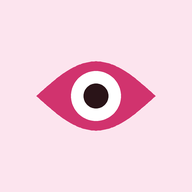
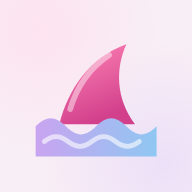
Neuer Name: Haiwoche – keine Panik, nur Zyklus
- Name, Slogan und Logo (rosa Haifischflosse auf Lavendel-Welle)
- Neue App-Icons, Manifest, Titel, Bericht, Kalender-Export
- Anspielungen auf den alten Namen entfernt, Daten bleiben erhalten

Claude-Session: https://claude.ai/code/session_01QNFRrH5HSP2dXDASiqCdb4

Changed region(s): [[0.1875, 0.2188, 0.8438, 0.8438]]

diff --git a/js/app.js b/js/app.js
@@ -1,10 +1,10 @@
-// Lukas is watching you – App-Steuerung, Ansichten und Aktionen.
+// Haiwoche – App-Steuerung, Ansichten und Aktionen.
 import * as C from './core.js';
 import * as T from './content.js';
 import * as St from './store.js';
-import { esc, fmt, fmtLong, fmtMonth, fmtShortMonth, tage, dec, icon, eye, bars, curve, cycleRows, heatmap, confBars, CONF_LABEL, TYPE_LABEL, gauge, phaseCurve, areaLine, donut } from './ui.js';
+import { esc, fmt, fmtLong, fmtMonth, fmtShortMonth, tage, dec, icon, logo, bars, curve, cycleRows, heatmap, confBars, CONF_LABEL, TYPE_LABEL, gauge, phaseCurve, areaLine, donut } from './ui.js';
 
-const VERSION = '2.1';
+const VERSION = '2.2';
 const $ = s => document.querySelector(s);
 const state = {
   db: null, session: null, prefs: St.loadPrefs(), ver: 0,
@@ -102,8 +102,9 @@ const chipsHtml = items => `<div class="mini-chips">${items.map(i => `<span clas
 function viewOnboarding() {
   const o = state.ob;
   return `<div class="view" style="padding-top:28px">
-    <div class="center"><div style="width:84px;height:84px;margin:0 auto">${eye()}</div>
-    <h1 style="margin:10px 0 6px">Lukas is watching you</h1>
+    <div class="center"><div style="width:96px;height:96px;margin:0 auto">${logo()}</div>
+    <h1 style="margin:10px 0 2px">Haiwoche</h1>
+    <p style="margin:0 0 10px;color:var(--sel);font-weight:600">Keine Panik, nur Zyklus.</p>
     <p class="muted" style="margin:0 0 24px">Dein privater Zyklus-Tracker. Alles bleibt auf diesem iPhone – ohne Account, ohne Internet, ohne Abo.</p></div>
     <div class="card">
       <label class="f" style="margin-top:0" for="ob-name">Wie heißt du? (optional)</label>
@@ -201,7 +202,7 @@ function viewToday() {
 
   return `<div class="view">
   <div class="hello"><div class="grow"><div class="hi">Hallo${name ? ', ' + esc(name) : ''} 👋</div><h1>${q}</h1></div>
-    <button class="avatar" data-a="go" data-v="more" aria-label="Mehr">${name ? esc(name.trim()[0].toUpperCase()) : `<span style="width:30px;height:30px">${eye()}</span>`}</button></div>
+    <button class="avatar" data-a="go" data-v="more" aria-label="Mehr">${name ? esc(name.trim()[0].toUpperCase()) : `<span style="width:30px;height:30px">${logo()}</span>`}</button></div>
   ${capsules(m)}
   ${ios && !standalone ? `<div class="card tint"><h2>Als App installieren</h2><p class="small mb0">Tippe in Safari auf <b>Teilen</b> → <b>Zum Home-Bildschirm</b>. Erst dann bleiben deine Daten dauerhaft gespeichert.</p></div>` : ''}
   <div class="card hero">
@@ -478,7 +479,7 @@ function viewReport() {
   <div class="btnrow mt"><button class="btn" data-a="print">${icon('doc')}PDF</button><button class="btn sec" data-a="shareReport">${icon('share')}Als Datei</button></div>
   <p class="xs muted mt">„Als PDF“ öffnet den Druckdialog – dort „Teilen“ → „In Dateien sichern“ als PDF. Falls er sich nicht öffnet, nutze „Als Datei“ und öffne sie in Safari.</p></div>
   <div id="report">
-  <div class="card"><div class="row"><div style="width:36px;height:36px">${eye()}</div><div><h2 style="margin:0">Zyklusbericht${S().name ? ' – ' + esc(S().name) : ''}</h2><div class="small muted">${fmt(from, { day: 'numeric', month: 'long', year: 'numeric' })} – ${fmt(t, { day: 'numeric', month: 'long', year: 'numeric' })}</div></div></div></div>
+  <div class="card"><div class="row"><div style="width:36px;height:36px">${logo()}</div><div><h2 style="margin:0">Zyklusbericht${S().name ? ' – ' + esc(S().name) : ''}</h2><div class="small muted">${fmt(from, { day: 'numeric', month: 'long', year: 'numeric' })} – ${fmt(t, { day: 'numeric', month: 'long', year: 'numeric' })}</div></div></div></div>
   <div class="card"><h2>Überblick</h2>
     <div class="kv"><span>Ø Zykluslänge (gesamt)</span><b>${m.nUsed ? tage(m.avgCycle) + ' (± ' + dec(m.sd) + ')' : '–'}</b></div>
     <div class="kv"><span>Spanne der letzten Zyklen</span><b>${m.lens.length ? Math.min(...m.lens.slice(-6)) + '–' + Math.max(...m.lens.slice(-6)) + ' Tage' : '–'}</b></div>
@@ -498,7 +499,7 @@ function viewReport() {
   ${R.months.length ? `<div class="card"><h2>Verlauf je Monat</h2><table class="tbl"><thead><tr><th>Monat</th><th>Periode</th><th>Schmerz</th><th>Energie</th><th>Schlaf</th></tr></thead><tbody>${R.months.map(x => `<tr><td>${fmtMonth(x.key)}</td><td>${x.periodDays || '–'}</td><td>${dec(x.pain)}</td><td>${dec(x.energy)}</td><td>${x.sleep == null ? '–' : dec(x.sleep) + ' h'}</td></tr>`).join('')}</tbody></table><p class="xs muted mt mb0">Schmerz 0–3, Energie 1–5 (Durchschnitt der Einträge).</p></div>` : ''}
   ${ins.length ? `<div class="card"><h2>Beobachtungen</h2>${ins.slice(0, 6).map(i => `<p class="small"><b>${esc(i.title)}</b> (${TYPE_LABEL[i.type]}): ${esc(i.text)}</p>`).join('')}</div>` : ''}
   ${R.notes.length ? `<div class="card"><h2>Notizen</h2>${R.notes.slice(-15).map(([d, e]) => `<p class="small"><b>${fmt(d, { day: 'numeric', month: 'short' })}:</b> ${esc(e.note)}</p>`).join('')}</div>` : ''}
-  <p class="xs muted">Erstellt am ${fmt(t, { day: 'numeric', month: 'long', year: 'numeric' })} mit „Lukas is watching you“. Selbst erfasste Daten; Eisprung- und Periodenangaben sind Schätzungen. Keine Diagnose.</p>
+  <p class="xs muted">Erstellt am ${fmt(t, { day: 'numeric', month: 'long', year: 'numeric' })} mit „Haiwoche“. Selbst erfasste Daten; Eisprung- und Periodenangaben sind Schätzungen. Keine Diagnose.</p>
   </div></div>`;
 }
 
@@ -582,7 +583,7 @@ function viewArticle(id) {
 
 function viewAbout() {
   return `<div class="view">${backHead('Über die App')}
-  <div class="card center"><div style="width:64px;height:64px;margin:0 auto">${eye()}</div><h2 style="margin:8px 0 2px">Lukas is watching you</h2><p class="small muted mb0">Version ${VERSION} · mit ❤ gebaut. (Lukas sieht natürlich nichts.)</p></div>
+  <div class="card center"><div style="width:64px;height:64px;margin:0 auto">${logo()}</div><h2 style="margin:8px 0 2px">Haiwoche</h2><p class="small mb0" style="color:var(--sel)">Keine Panik, nur Zyklus.</p><p class="small muted mb0">Version ${VERSION} · mit ❤ gebaut</p></div>
   <div class="card"><h2>Datenschutz</h2><ul class="small" style="padding-left:18px;margin:0">
     <li>Alle Daten bleiben auf diesem Gerät (lokaler Speicher), optional verschlüsselt.</li>
     <li>Keine Accounts, keine Server, keine Werbung, keine Analyse-Tools, keine Drittanbieter.</li>
@@ -671,7 +672,7 @@ function renderLock(shake) {
   const unlock = pin.mode.startsWith('unlock');
   const title = unlock ? 'Code eingeben' : pin.mode === 'set1' ? 'Neuen Code wählen' : 'Code wiederholen';
   const keys = ['1', '2', '3', '4', '5', '6', '7', '8', '9', unlock ? 'forgot' : 'cancel', '0', 'del'];
-  el.innerHTML = `<div style="width:64px;height:64px">${eye()}</div>
+  el.innerHTML = `<div style="width:64px;height:64px">${logo()}</div>
     <div style="font-size:20px;font-weight:650;margin-top:10px">${title}</div>
     <div class="small muted" style="min-height:20px;margin-top:4px" role="status">${pin.busy ? 'Wird entschlüsselt …' : pin.msg}</div>
     ${pin.busy ? '<div style="margin:30px 0 54px"><div class="spinner"></div></div>' : `<div class="pdots ${shake ? 'shake' : ''}" aria-hidden="true">${[0, 1, 2, 3].map(i => `<i class="${i < pin.buf.length ? 'on' : ''}"></i>`).join('')}</div>`}
@@ -916,7 +917,7 @@ const A = {
   lockAfter(el) { state.prefs.lockAfter = Number(el.dataset.v); St.savePrefs(state.prefs); render(); },
   theme(el) { state.prefs.theme = el.dataset.v; St.savePrefs(state.prefs); applyTheme(); render(); },
   async export() {
-    const json = JSON.stringify({ app: 'lukas-is-watching-you', version: 2, exported: new Date().toISOString(), data: state.db }, null, 1);
+    const json = JSON.stringify({ app: 'haiwoche', version: 2, exported: new Date().toISOString(), data: state.db }, null, 1);
     const ok = await shareOrDownload(`zyklus-backup-${C.todayISO()}.json`, json, 'application/json', 'Zyklus-Backup');
     if (ok) { S().lastBackup = C.todayISO(); commit(); toast('Backup erstellt'); }
   },

diff --git a/js/core.js b/js/core.js
@@ -475,7 +475,7 @@ const icsEsc = s => String(s).replace(/\\/g, '\\\\').replace(/;/g, '\\;').replac
 export function buildICS(db, m, opts = {}, now = new Date()) {
   const S = db.settings;
   const stamp = now.toISOString().replace(/[-:]/g, '').replace(/\.\d+Z$/, 'Z');
-  const L = ['BEGIN:VCALENDAR', 'VERSION:2.0', 'PRODID:-//Lukas is watching you//DE', 'CALSCALE:GREGORIAN', 'METHOD:PUBLISH'];
+  const L = ['BEGIN:VCALENDAR', 'VERSION:2.0', 'PRODID:-//Haiwoche//DE', 'CALSCALE:GREGORIAN', 'METHOD:PUBLISH'];
   const ev = (uid, start, end, title, desc, alarm, rrule, time) => {
     L.push('BEGIN:VEVENT', `UID:${uid}@liwy.local`, `DTSTAMP:${stamp}`);
     if (time) { const hm = time.replace(':', '') + '00'; L.push(`DTSTART:${icsDate(start)}T${hm}`, `DTEND:${icsDate(start)}T${hm}`); }
@@ -489,7 +489,7 @@ export function buildICS(db, m, opts = {}, now = new Date()) {
   if (opts.periods !== false && m.cur) {
     m.future.slice(0, opts.count || 6).forEach((s, i) => {
       const before = S.reminders.periodBefore || 0;
-      ev(`period-${i}-${s.start}`, s.start, add(s.end, 1), '🩸 Periode erwartet (Schätzung)', `Geschätzter Zeitraum ± ${s.unc} Tage. Erstellt von „Lukas is watching you“.`, before > 0 ? `-P${before}DT0H0M0S` : '-PT0M', null, null);
+      ev(`period-${i}-${s.start}`, s.start, add(s.end, 1), '🩸 Periode erwartet (Schätzung)', `Geschätzter Zeitraum ± ${s.unc} Tage. Erstellt von „Haiwoche“.`, before > 0 ? `-P${before}DT0H0M0S` : '-PT0M', null, null);
     });
   }
   if (opts.fertile && m.cur) m.future.slice(0, opts.count || 6).forEach((s, i) => ev(`fert-${i}-${s.ov}`, add(s.ov, -5), add(s.ov, 2), 'Fruchtbares Fenster (Schätzung)', 'Nur eine Schätzung – nicht zur Verhütung geeignet.', null, null, null));

diff --git a/js/ui.js b/js/ui.js
@@ -46,7 +46,7 @@ const P = {
   thermo: '<path d="M10 14.5V5a2 2 0 0 1 4 0v9.5a4 4 0 1 1-4 0z"/><path d="M12 9v7"/>',
 };
 export const icon = (name, cls = '') => `<svg class="${cls}" viewBox="0 0 24 24" fill="none" stroke="currentColor" stroke-width="1.8" stroke-linecap="round" stroke-linejoin="round" aria-hidden="true">${P[name] || ''}</svg>`;
-export const eye = () => `<svg viewBox="0 0 64 64" aria-hidden="true"><path d="M8 32c6-10 14-15 24-15s18 5 24 15c-6 10-14 15-24 15S14 42 8 32z" fill="var(--accent)"/><circle cx="32" cy="32" r="8.5" fill="#fff"/><circle cx="32" cy="32" r="4.2" fill="#2a1418"/></svg>`;
+export const logo = () => `<svg viewBox="0 0 64 64" aria-hidden="true"><defs><linearGradient id="hw-f" x1="0" y1="0" x2=".4" y2="1"><stop offset="0" stop-color="#ff86b6"/><stop offset="1" stop-color="#d2408c"/></linearGradient><linearGradient id="hw-w" x1="0" y1="0" x2="1" y2="0"><stop offset="0" stop-color="#c9a4f0"/><stop offset="1" stop-color="#8fc7f2"/></linearGradient></defs><path d="M15 45C19 29 29 14 46 8c-5 11-5 25 4 37z" fill="url(#hw-f)"/><path d="M20 38c3-10 9-19 18-25" stroke="#fff" stroke-width="2.6" fill="none" stroke-linecap="round" opacity=".45"/><path d="M4 46c5-5 9-5 14 0s9 5 14 0 9-5 14 0 9 5 14 0v14H4z" fill="url(#hw-w)"/><path d="M8 53c4-3 7-3 11 0s7 3 11 0 7-3 11 0 7 3 11 0" stroke="#fff" stroke-width="2.2" fill="none" stroke-linecap="round" opacity=".6"/></svg>`;
 
 /* ---------- Zyklusring ---------- */
 export function ring(m) {

diff --git a/index.html b/index.html
@@ -3,14 +3,14 @@
 <head>
 <meta charset="utf-8">
 <meta name="viewport" content="width=device-width,initial-scale=1,viewport-fit=cover">
-<title>Lukas is watching you</title>
-<meta name="description" content="Privater, offline nutzbarer Zyklus- und Gesundheits-Tracker.">
+<title>Haiwoche</title>
+<meta name="description" content="Haiwoche – keine Panik, nur Zyklus. Privater, offline nutzbarer Zyklus-Tracker.">
 <meta name="theme-color" content="#fcf8f9" media="(prefers-color-scheme: light)">
 <meta name="theme-color" content="#0f0c0d" media="(prefers-color-scheme: dark)">
 <meta name="apple-mobile-web-app-capable" content="yes">
 <meta name="mobile-web-app-capable" content="yes">
 <meta name="apple-mobile-web-app-status-bar-style" content="default">
-<meta name="apple-mobile-web-app-title" content="Lukas 👀">
+<meta name="apple-mobile-web-app-title" content="Haiwoche">
 <meta name="format-detection" content="telephone=no">
 <link rel="apple-touch-icon" href="apple-touch-icon.png">
 <link rel="icon" type="image/png" href="icon-192.png">

diff --git a/sw.js b/sw.js
@@ -1,5 +1,5 @@
 // Offline-Cache. Bei jeder neuen Version CACHE erhöhen.
-const CACHE = 'liwy-v2.1.0';
+const CACHE = 'liwy-v2.2.0';
 const FILES = ['./', './index.html', './css/app.css', './js/app.js', './js/core.js', './js/ui.js', './js/store.js', './js/content.js',
   './manifest.webmanifest', './apple-touch-icon.png', './icon-192.png', './icon-512.png'];
 self.addEventListener('install', e => {

diff --git a/README.md b/README.md
@@ -1,4 +1,6 @@
-# Lukas is watching you
+# Haiwoche 🦈
+
+*Keine Panik, nur Zyklus.*
 
 Privater Zyklus- und Gesundheits-Tracker als Web-App (PWA) für das iPhone.
 Läuft komplett offline: keine Accounts, keine Server, keine Abos, keine externen Dienste.
